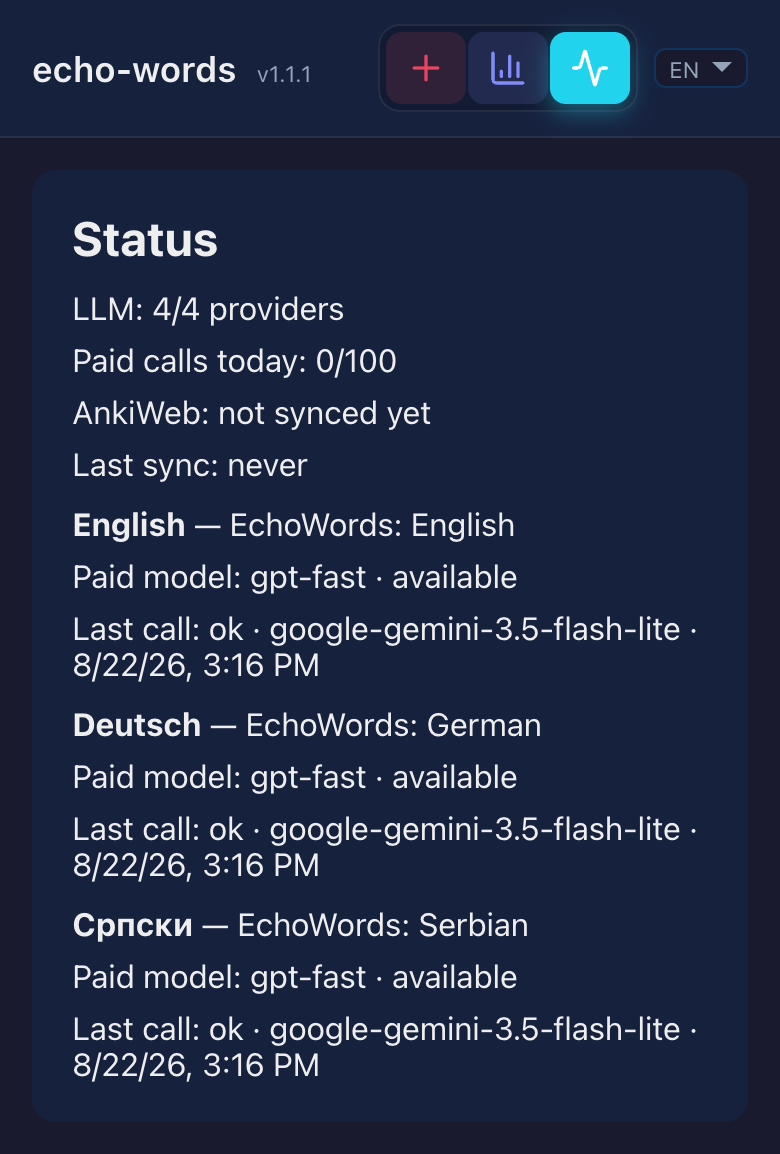
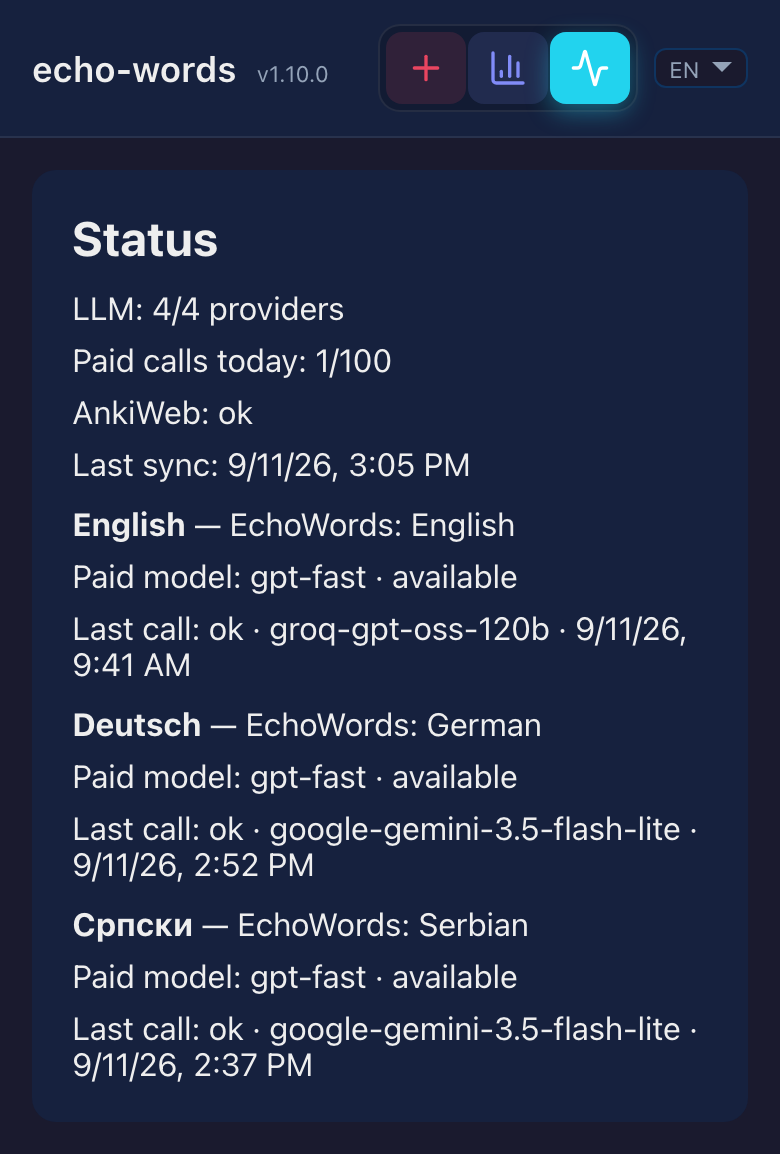
screenshots

diff --git a/scripts/capture_readme_screenshots.py b/scripts/capture_readme_screenshots.py
@@ -1,4 +1,4 @@
-"""Rebuild the PWA and capture the three README screenshots from stable demo data."""
+"""Rebuild the PWA and capture the README and docs screenshots from stable demo data."""
 
 import argparse
 import asyncio
@@ -15,10 +15,12 @@ import uvicorn
 from fastapi import FastAPI
 from fastapi.responses import Response, StreamingResponse
 from fastapi.staticfiles import StaticFiles
-from playwright.sync_api import sync_playwright
+from playwright.sync_api import Browser, Locator, Page, ViewportSize, expect, sync_playwright
 
 REPO = Path(__file__).resolve().parents[1]
 SCREENSHOTS = REPO / "docs" / "common" / "images" / "screenshots"
+VIEWPORT: ViewportSize = {"width": 390, "height": 640}
+PAGE_MARGIN = 16
 
 WORD_ENTRY = {
     "entry_id": "word-demo",
@@ -50,8 +52,14 @@ WORD_ENTRY = {
             "reason": "for freedom",
             "context": "Sie spürte Sehnsucht nach Freiheit.",
         },
+        {
+            "label": "Sehnsucht",
+            "reason": "for home",
+            "context": "Die Sehnsucht nach der Heimat wurde immer stärker.",
+        },
     ],
     "segment_kind": "senses",
+    "carded_sense": 0,
     "card_status": "added",
     "card_kinds": [
         "Recognition",
@@ -96,6 +104,52 @@ TEXT_ENTRY = {
     "detail_available": False,
 }
 
+SERBIAN_ENTRY = {
+    "entry_id": "cyrillic-demo",
+    "word": "инат",
+    "lang": "sr",
+    "language": "Српски",
+    "lookup_only": False,
+    "status": "done",
+    "shape": "unit",
+    "text": (
+        "<b>spite</b> (colloquial); <b>defiance</b> (neutral)\n\n"
+        "Noun, masculine; plural <i>инати</i>. Stubborn contrariness: doing something "
+        "precisely because someone is against it, even at one's own cost. Most often in "
+        "<i>из ината</i> “out of spite” and <i>терати инат</i> “to be contrary.”\n\n"
+        "<b>Origin.</b> From Turkish <i>inat</i> “obstinacy,” itself from Arabic "
+        "<i>ʿinād</i>.\n\n"
+        "<b>Examples</b>\n"
+        "<i>Урадио је то из ината.</i> — He did it out of spite.\n"
+        "<i>Престани да тераш инат.</i> — Stop being so contrary."
+    ),
+    "audio_url": "/demo.wav",
+    "segments": [
+        {"label": "инат", "reason": "out of spite", "context": "Урадио је то из ината."},
+        {"label": "инат", "reason": "in defiance", "context": "Живео је дуго, свима у инат."},
+        {"label": "инат", "reason": "stubbornness", "context": "Престани да тераш инат."},
+    ],
+    "segment_kind": "senses",
+    "carded_sense": 0,
+    "card_status": "added",
+    "card_kinds": [
+        "Recognition",
+        "Recall",
+        "ContextRecognition",
+        "ContextProduction",
+    ],
+    "detail_available": True,
+}
+
+# The PWA keeps its history on the device, and reads this localStorage copy when
+# IndexedDB holds none.
+SEED_HISTORY = """entries => {
+    const now = Date.now();
+    localStorage.setItem("echo-words.cache.v1:history", JSON.stringify(
+        { key: "history", data: entries, fetchedAt: now, attemptedAt: now, updatedAt: now },
+    ));
+}"""
+
 
 def silent_wav() -> bytes:
     buffer = io.BytesIO()
@@ -119,9 +173,84 @@ async def languages():
     ]
 
 
-@app.get("/api/words/recent")
-async def recent():
-    return [WORD_ENTRY, TEXT_ENTRY]
+@app.get("/api/stats")
+async def stats():
+    return {
+        "languages": {
+            "en": {
+                "name": "English",
+                "today": 3,
+                "last_7_days": 18,
+                "all_time": 412,
+                "lookup_only": 1,
+            },
+            "de": {
+                "name": "Deutsch",
+                "today": 5,
+                "last_7_days": 31,
+                "all_time": 687,
+                "lookup_only": 2,
+            },
+            "sr": {
+                "name": "Српски",
+                "today": 2,
+                "last_7_days": 9,
+                "all_time": 143,
+                "lookup_only": 0,
+            },
+        },
+        "session_counters_since": "startup",
+    }
+
+
+def language_status(name: str, deck: str, model: str, at: str) -> dict[str, object]:
+    return {
+        "name": name,
+        "deck": deck,
+        "paid_alias": "gpt-fast",
+        "paid_available_today": True,
+        "paid_refusal": None,
+        "last_call": {"model": model, "paid": False, "ok": True, "at": at, "error": None},
+    }
+
+
+@app.get("/api/status")
+async def status():
+    return {
+        "pool": {
+            "available": True,
+            "providers_usable": 4,
+            "providers_total": 4,
+            "degraded": False,
+            "missing_keys": [],
+            "direct_missing_keys": [],
+        },
+        "paid_calls": {"today": 1, "daily_cap": 100},
+        "languages": {
+            "en": language_status(
+                "English", "EchoWords: English", "groq-gpt-oss-120b", "2026-09-11T09:41:00Z"
+            ),
+            "de": language_status(
+                "Deutsch",
+                "EchoWords: German",
+                "google-gemini-3.5-flash-lite",
+                "2026-09-11T14:52:00Z",
+            ),
+            "sr": language_status(
+                "Српски",
+                "EchoWords: Serbian",
+                "google-gemini-3.5-flash-lite",
+                "2026-09-11T14:37:00Z",
+            ),
+        },
+        "anki": {
+            "last_result": "ok",
+            "last_sync_at": "2026-09-11T15:05:00Z",
+            "unsynced_changes": False,
+            "full_sync_required": False,
+            "error": None,
+        },
+    }
 
 
 @app.get("/api/events")
@@ -139,7 +268,13 @@ async def audio():
     return Response(silent_wav(), media_type="audio/wav")
 
 
-app.mount("/", StaticFiles(directory=REPO / "_static", html=True), name="static")
+# The e2e suite imports this module, and a missing build must fail that one test
+# rather than the collection of the whole suite.
+app.mount(
+    "/",
+    StaticFiles(directory=REPO / "_static", html=True, check_dir=False),
+    name="static",
+)
 
 
 @contextlib.contextmanager
@@ -161,8 +296,77 @@ def live_server() -> Iterator[str]:
         thread.join(timeout=10)
 
 
-def capture(*, build: bool = True) -> None:
-    if build:
+def settled_card(page: Page) -> Locator:
+    """The card slides in on every switch; a shot taken mid-slide is off-centre and faded."""
+    card = page.locator(".deck")
+    expect(card).to_have_css("transform", "matrix(1, 0, 0, 1, 0, 0)")
+    expect(card).to_have_css("opacity", "1")
+    return card
+
+
+def shot_down_to(page: Page, card: Locator, path: Path) -> None:
+    """A page shorter than the screen is cut under its card, not padded with empty ground."""
+    box = card.bounding_box()
+    if box is None:
+        raise RuntimeError(f"nothing on the page to photograph for {path.name}")
+    page.screenshot(
+        path=path,
+        animations="disabled",
+        full_page=True,
+        clip={
+            "x": 0,
+            "y": 0,
+            "width": VIEWPORT["width"],
+            "height": box["y"] + box["height"] + PAGE_MARGIN,
+        },
+    )
+
+
+def capture(browser: Browser, url: str, out: Path) -> None:
+    context = browser.new_context(
+        viewport=VIEWPORT,
+        device_scale_factor=2,
+        color_scheme="dark",
+        locale="en-US",
+        timezone_id="UTC",
+    )
+    try:
+        page = context.new_page()
+        page.goto(url)
+        page.evaluate(SEED_HISTORY, [WORD_ENTRY, TEXT_ENTRY, SERBIAN_ENTRY])
+        page.reload(wait_until="networkidle")
+        page.get_by_role("tab", name="Deutsch", exact=True).click()
+        page.get_by_placeholder("a word or a phrase").fill("sich verlassen auf")
+        settled_card(page)
+        page.screenshot(path=out / "add-word.png", animations="disabled")
+
+        page.get_by_placeholder("a word or a phrase").fill("")
+        page.get_by_role("tab", name="Sehnsucht", exact=True).click()
+        settled_card(page).screenshot(path=out / "card-added.png", animations="disabled")
+
+        page.get_by_role("tab", name=SENTENCE, exact=True).click()
+        settled_card(page).screenshot(path=out / "sentence.png", animations="disabled")
+
+        page.get_by_role("tab", name="Српски", exact=True).click()
+        settled_card(page).screenshot(path=out / "cyrillic-card.png", animations="disabled")
+
+        for view, name in (("Stats", "stats.png"), ("Status", "status.png")):
+            page.get_by_role("tab", name=view, exact=True).click()
+            card = page.locator(".app-main > .card")
+            expect(card.get_by_role("heading", name=view, exact=True)).to_be_visible()
+            shot_down_to(page, card, out / name)
+    finally:
+        context.close()
+
+
+def main() -> None:
+    parser = argparse.ArgumentParser(description=__doc__)
+    parser.add_argument(
+        "--skip-build",
+        action="store_true",
+        help="capture the already-built _static bundle",
+    )
+    if not parser.parse_args().skip_build:
         subprocess.run(
             [sys.executable, "-m", "invoke", "build-static"],
             cwd=REPO,
@@ -171,32 +375,9 @@ def capture(*, build: bool = True) -> None:
     SCREENSHOTS.mkdir(parents=True, exist_ok=True)
     with live_server() as url, sync_playwright() as playwright:
         browser = playwright.chromium.launch(headless=True)
-        context = browser.new_context(
-            viewport={"width": 390, "height": 640},
-            device_scale_factor=2,
-            color_scheme="dark",
-            locale="en-US",
-        )
-        page = context.new_page()
-        page.goto(url, wait_until="networkidle")
-        page.get_by_role("tab", name="Deutsch", exact=True).click()
-        page.get_by_placeholder("a word or a phrase").fill("sich verlassen auf")
-        page.screenshot(path=SCREENSHOTS / "add-word.png")
-
-        page.get_by_placeholder("a word or a phrase").fill("")
-        page.get_by_role("tab", name="Sehnsucht", exact=True).click()
-        page.locator(".deck").screenshot(path=SCREENSHOTS / "card-added.png")
-
-        page.get_by_role("tab", name=SENTENCE, exact=True).click()
-        page.locator(".deck").screenshot(path=SCREENSHOTS / "sentence.png")
+        capture(browser, url, SCREENSHOTS)
         browser.close()
 
 
 if __name__ == "__main__":
-    parser = argparse.ArgumentParser(description=__doc__)
-    parser.add_argument(
-        "--skip-build",
-        action="store_true",
-        help="capture the already-built _static bundle",
-    )
-    capture(build=not parser.parse_args().skip_build)
+    main()

diff --git a/tests/test_e2e_readme_screenshots.py b/tests/test_e2e_readme_screenshots.py
@@ -1,0 +1,37 @@
+"""Every screenshot the README and the docs show is taken by one script from the built
+PWA, so a change to the page can leave that script looking for something that is no
+longer there, and a picture taken by hand is one nothing will ever retake."""
+
+import importlib.util
+import sys
+from pathlib import Path
+
+import pytest
+from e2e_app import BUILT_PWA, REPO_ROOT
+from playwright.sync_api import Browser
+
+pytestmark = pytest.mark.e2e
+
+_SPEC = importlib.util.spec_from_file_location(
+    "capture_readme_screenshots",
+    REPO_ROOT / "scripts" / "capture_readme_screenshots.py",
+)
+assert _SPEC and _SPEC.loader
+screenshots = importlib.util.module_from_spec(_SPEC)
+sys.modules[_SPEC.name] = screenshots
+_SPEC.loader.exec_module(screenshots)
+
+
+def test_the_readme_screenshots_are_captured_from_the_built_pwa(
+    browser: Browser,
+    tmp_path: Path,
+) -> None:
+    if not (BUILT_PWA / "index.html").exists():
+        pytest.fail(f"{BUILT_PWA}/index.html is missing — run `uv run inv build-static`")
+
+    with screenshots.live_server() as url:
+        screenshots.capture(browser, url, tmp_path)
+
+    assert sorted(path.name for path in tmp_path.glob("*.png")) == sorted(
+        path.name for path in screenshots.SCREENSHOTS.glob("*.png")
+    )

diff --git a/tests/conftest.py b/tests/conftest.py
@@ -28,6 +28,7 @@ _DEFAULT_BEHAVIOR_BY_FILE: dict[str, tuple[str, str, str | None]] = {
     "test_config.py": (_PLATFORM, "Configuration and lifecycle", "Settings"),
     "test_e2e_answers.py": (_VOCABULARY, "Answer delivery", "Browser end to end"),
     "test_e2e_card_controls.py": (_VOCABULARY, "Answer delivery", "Browser end to end"),
+    "test_e2e_readme_screenshots.py": (_PLATFORM, "Health and deployment", "README screenshots"),
     "test_e2e_resilience.py": (_PLATFORM, "PWA resilience", "Browser end to end"),
     "test_echo_words.py": (_PLATFORM, "Configuration and lifecycle", "CLI startup"),
     "test_i18n.py": (_PLATFORM, "Interface language", None),

diff --git a/tasks.py b/tasks.py
@@ -199,7 +199,7 @@ def build_static(c: Context):
 
 @task(name="readme-screenshots")
 def readme_screenshots(c: Context):
-    """Rebuild the PWA and capture README screenshots from stable demo data."""
+    """Rebuild the PWA and capture the README and docs screenshots from stable demo data."""
     c.run("uv run python scripts/capture_readme_screenshots.py")
 
 

diff --git a/CLAUDE.md b/CLAUDE.md
@@ -68,6 +68,7 @@ tool looks for.
 | Browser e2e only | `uv run pytest -m e2e` |
 | Dev server (auto-reload) | `uv run inv dev` |
 | Build the PWA into `_static/` | `uv run inv build-static` |
+| Recapture the README and docs screenshots after a visible UI change | `uv run inv readme-screenshots` |
 | List every task | `uv run inv --list` |
 
 The `uv run` prefix is optional inside an activated `.venv`.
